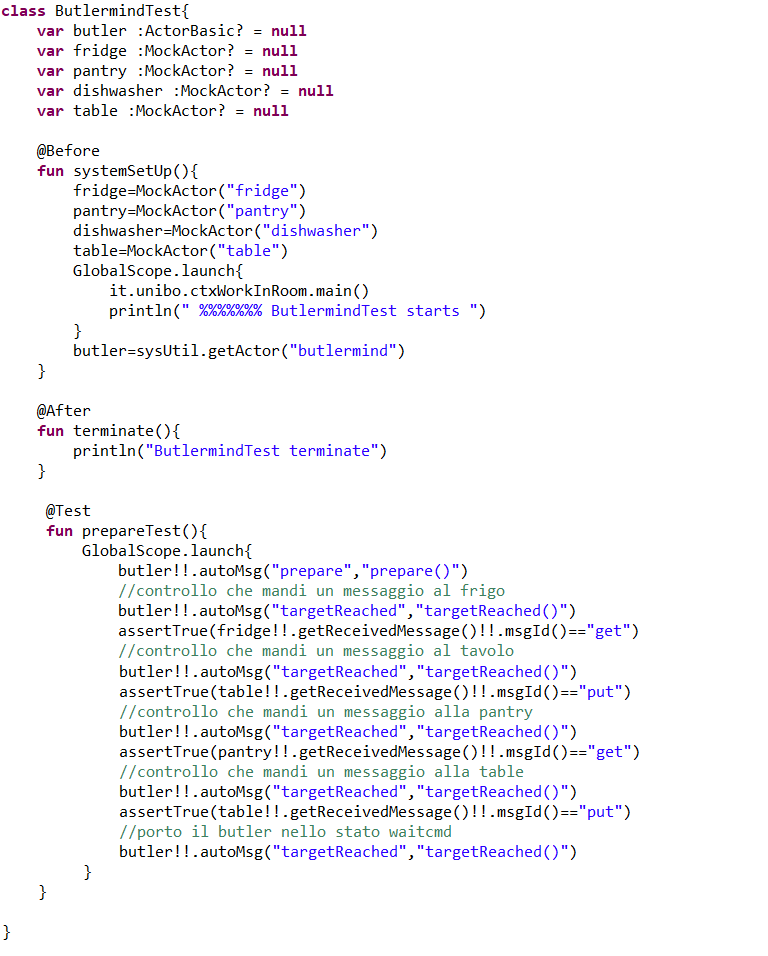
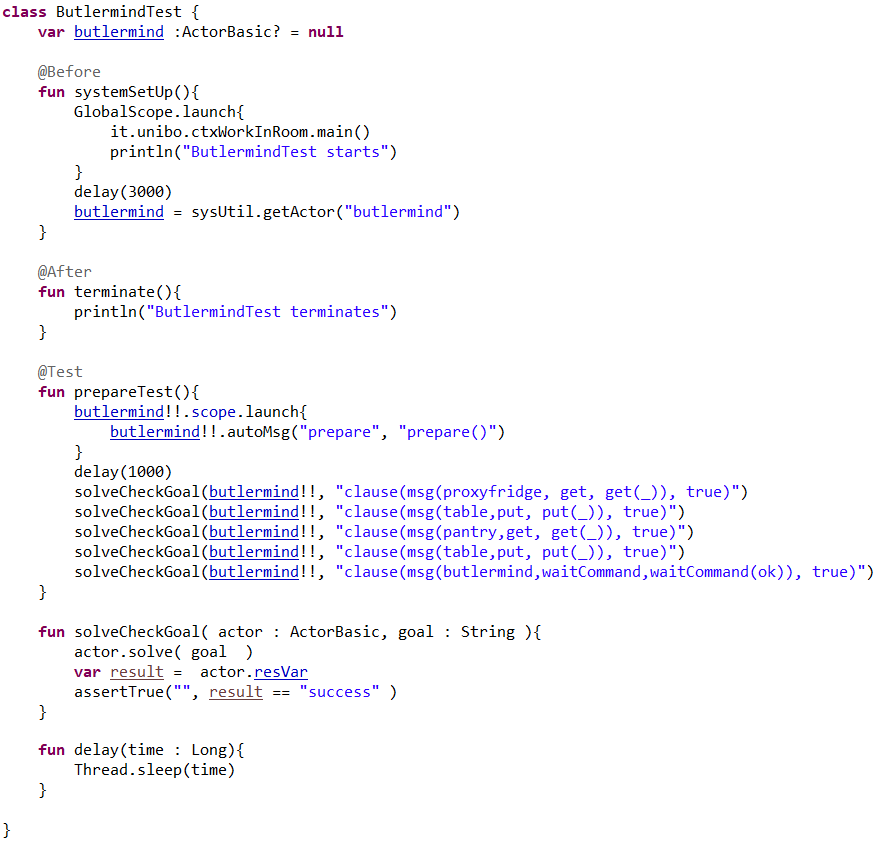
Modifiche alla documentazione

diff --git a/documentazione/progettoISS.html b/documentazione/progettoISS.html
@@ -691,7 +691,7 @@ of the <k>functional TestPlans</k>, with reference to the
 Definito ciò scritto sopra, quindi, ci si aspetta che:
 <ol type="1">
 	<li id="t1">
-	i vari attori ricevano propriamente i messaggi e gli eventi
+	i vari attori ricevano propriamente i messaggi
 	</li>
 	<li id="t2">
 	i vari attori transitino negli stati adatti dopo ricezione dei messaggi
@@ -786,16 +786,13 @@ Si implementeranno, dunque, test che verifichino ciò.
 
 <h2>Testing</h2>
 <div>
-Si riportano alcuni dei test di cui parlato sopra nella sezione Test plans.</br>
-In alcuni di essi è stato utilizzato un elemento, detto MockActor, che simuli un attore 
-dal solo punto di vista di memorizzazione dell'ultimo messaggio ricevuto:
+Si riportano alcuni dei test di cui parlato sopra nella sezione Test plans.
 </div>
 </br>
-<div class="img" style="width:60%">
-	<center><img src="./immagini/mockActor.png" width="100%" height="50%"/></center>
-</div></br>
 <div>
-Nel seguente test si controlla che vari attori ricevano messaggi adeguatamente:
+Nel seguente test si controlla che l'attore butlermind riceva messaggi adeguatamente. 
+Infatti esso, alla prepare, deve aver posto nella propria KB ognuno dei messaggi che 
+invierà alla ricezione di ciascun elemento della stanza.
 </div>
 </br>
 <div class="img" style="width:60%">
@@ -803,7 +800,7 @@ Nel seguente test si controlla che vari attori ricevano messaggi adeguatamente:
 </div></br>
 <div>
 Nel seguente test si controlla che lo stato dell'attore <em>table</em> venga 
-correttamente modificato:
+correttamente modificato dalle interrogazioni prolog:
 </div>
 </br>
 <div class="img" style="width:60%">
@@ -811,11 +808,26 @@ correttamente modificato:
 </div></br>
 <div>
 Nel seguente test si controlla che <bc>RBR</bc> riesca a raggiungere <em>fridge</em> 
-nonostante l'aver incontrato un ostacolo:
+nonostante l'aver incontrato un ostacolo fisso. Si considera superato il test se, 
+nonostante l'ostacolo, <bc>RBR</bc> ha raggiunto il <em>fridge</em> ed ha quindi 
+inviato a quest'ultimo il messaggio specificato, che deve perciò essere stato rimosso 
+dalla KB.
 </div>
 </br>
 <div class="img" style="width:60%">
-	<center><img src="./immagini/obstacleAvoidanceTest.png" width="100%" height="50%"/></center>
+	<center><img src="./immagini/fixedObstacleAvoidanceTest.png" width="100%" height="50%"/></center>
+</div></br>
+<div>
+<div>
+Nel seguente test si controlla che <bc>RBR</bc> riesca a raggiungere <em>fridge</em> 
+nonostante l'aver incontrato un ostacolo mobile. Si considera superato il test se, 
+nonostante l'ostacolo, <bc>RBR</bc> ha raggiunto il <em>fridge</em> ed ha quindi 
+inviato a quest'ultimo il messaggio specificato, che deve perciò essere stato rimosso 
+dalla KB.
+</div>
+</br>
+<div class="img" style="width:60%">
+	<center><img src="./immagini/movingObstacleAvoidanceTest.png" width="100%" height="50%"/></center>
 </div></br>
 <div>
 Nel seguente test si controlla che la comunicazione CoAP col <em>fridge</em> avvenga 

diff --git a/documentazione/sprint 2.html b/documentazione/sprint 2.html
@@ -196,6 +196,7 @@ Il prototipo realizzato deve essere in grado di:
 
 <h2>Progettazione</h2>
 <div>
+DA CAMBIARE -> controllare che la roba di natali gestisse la add
 Si riutilizzano interamente i componenti dello sprint precedente modificando solamente
 il frontend per predisporlo all'invio dei comandi prepare add e clear.<br/>
 Tutti gli attori necessari sono già stati forniti dalla software house
